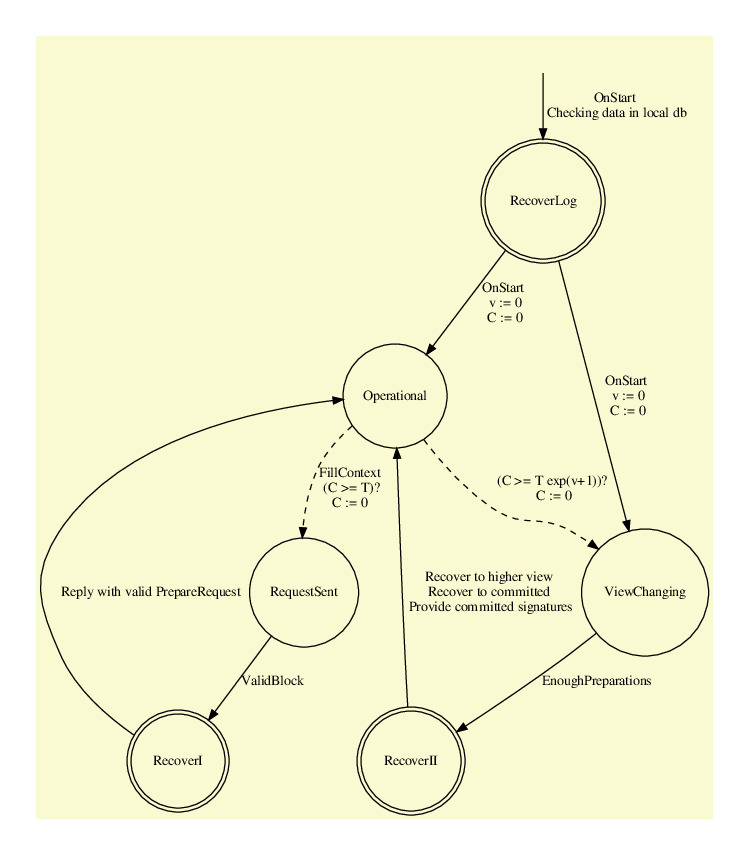
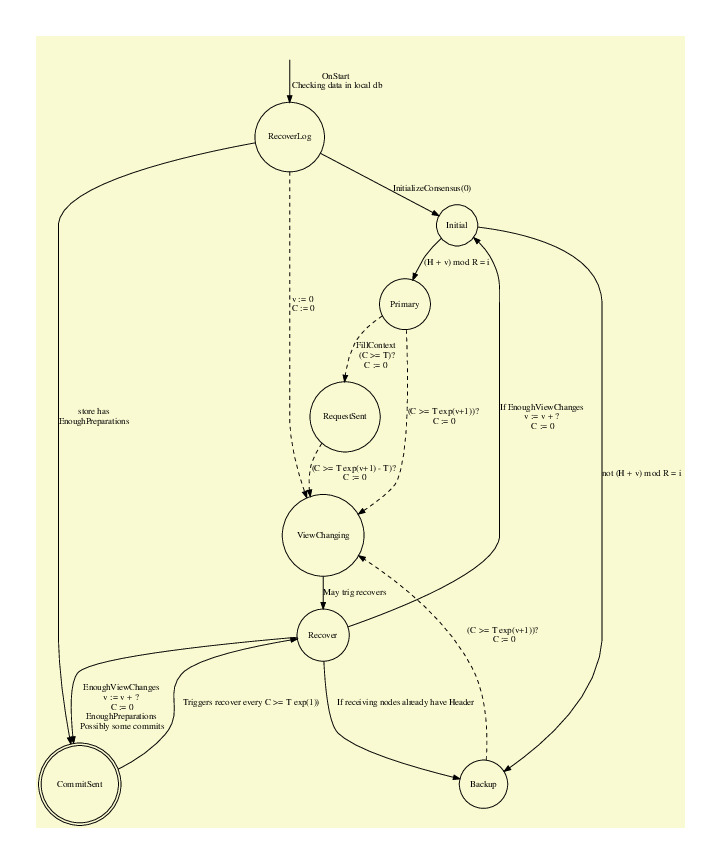
Updating flowchart

diff --git a/sections/08_dBFT.md b/sections/08_dBFT.md
@@ -244,18 +244,24 @@ digraph dBFT {
         //rankdir=LR;
         size="11";
   Empty [ label="", width=0, height=0, style = invis ];
-	node [shape = circle]; Operational;
-	node [shape = doublecircle]; RecoverI; RecoverII; RecoverLog
+	node [shape = circle]; Initial;
+  node [shape = doublecircle]; CommitSent;
 	node [shape = circle];
   Empty -> RecoverLog [label = "OnStart\n Checking data in local db"];
-  RecoverLog -> Operational [label = "OnStart\n v := 0\n C := 0"];
-  RecoverLog -> ViewChanging [label = "OnStart\n v := 0\n C := 0"];
-	Operational -> RequestSent [ label = "FillContext\n (C >= T)?\nC := 0", style="dashed" ];
-	Operational -> ViewChanging [ label = "(C >= T exp(v+1))?\n C := 0", style="dashed" ];
-	RequestSent -> RecoverI [ label = "ValidBlock" ];
-	ViewChanging -> RecoverII [ label = "EnoughPreparations" ];
-  RecoverI -> Operational [ label = "Reply with valid PrepareRequest" ];
-  RecoverII -> Operational [ label = "Recover to higher view\n Recover to committed \n Provide committed signatures" ];
+  RecoverLog -> Initial [label = "InitializeConsensus(0)"];
+  RecoverLog -> CommitSent [label = "store has\nEnoughPreparations"];
+  RecoverLog -> ViewChanging [ label = "v := 0\n C := 0", style="dashed" ];
+	Initial -> Primary [ label = "(H + v) mod R = i" ];
+	Initial -> Backup [ label = "not (H + v) mod R = i" ];
+  Backup -> ViewChanging [ label = "(C >= T exp(v+1))?\n C := 0", style="dashed" ];
+  Primary -> ViewChanging [label = "(C >= T exp(v+1))?\n C := 0", style="dashed"];
+	Primary -> RequestSent [ label = "FillContext\n (C >= T)?\nC := 0", style="dashed" ];
+  RequestSent -> ViewChanging [ label = "(C >= T exp(v+1) - T)?\n C := 0", style="dashed" ];  
+	ViewChanging -> Recover [ label = "May trig recovers" ];
+  Recover -> Backup [ label = "If receiving nodes already have Header" ];
+  Recover -> Initial [ label = "If EnoughViewChanges\n v := v + ? \n C := 0" ];
+  Recover -> CommitSent [ label = "\nEnoughViewChanges\n v := v + ? \n C := 0\nEnoughPreparations\n Possibly some commits" ];
+  CommitSent -> Recover [ label = "Triggers recover every C >= T exp(1)) " ];
 }
 ~~~~~~~~~~~~
 
